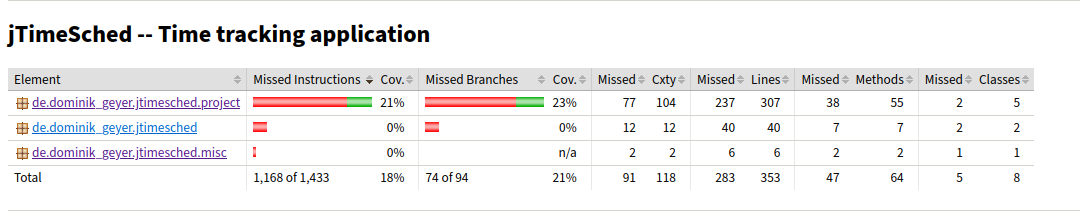
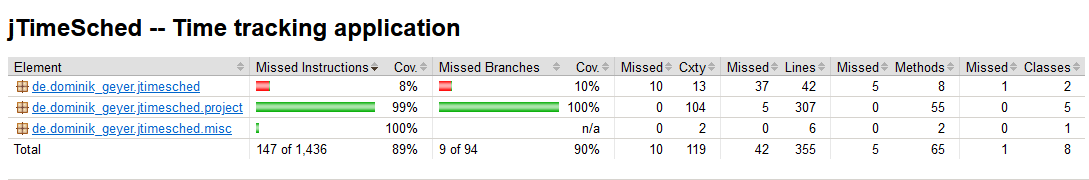
Fix: coverage image

diff --git a/assignments/5_structural_testing/5_report.md b/assignments/5_structural_testing/5_report.md
@@ -122,8 +122,6 @@ This section provides a brief description and the result of each unit test we de
     - **Description**: The test created a null date and attempts to parse it. The test succeeds if it throws a _NullPointerException_.
 ### Code coverage achieved
 
-The following image contains the final results of our work. We were able to successfully achieve ??% of line coverage and ??% of branch coverage. 
-
-o irao gosta (muito) da nach
+The following image contains the final results of our work. We were able to successfully achieve 89% of line coverage and 90% of branch coverage. 
 
 ![coverage_without_gui](img/coverage_without_gui.png)
